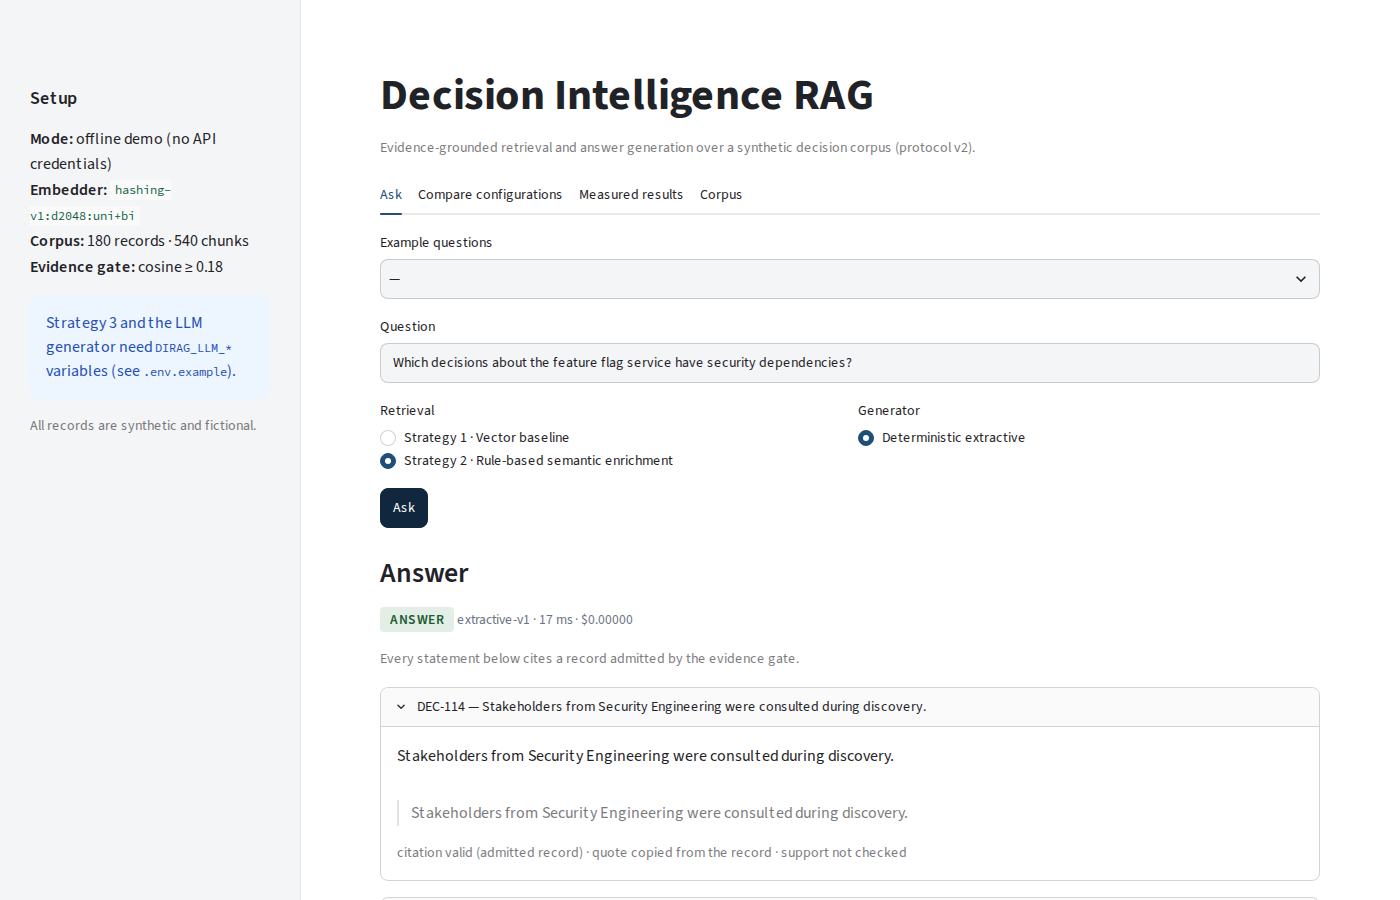
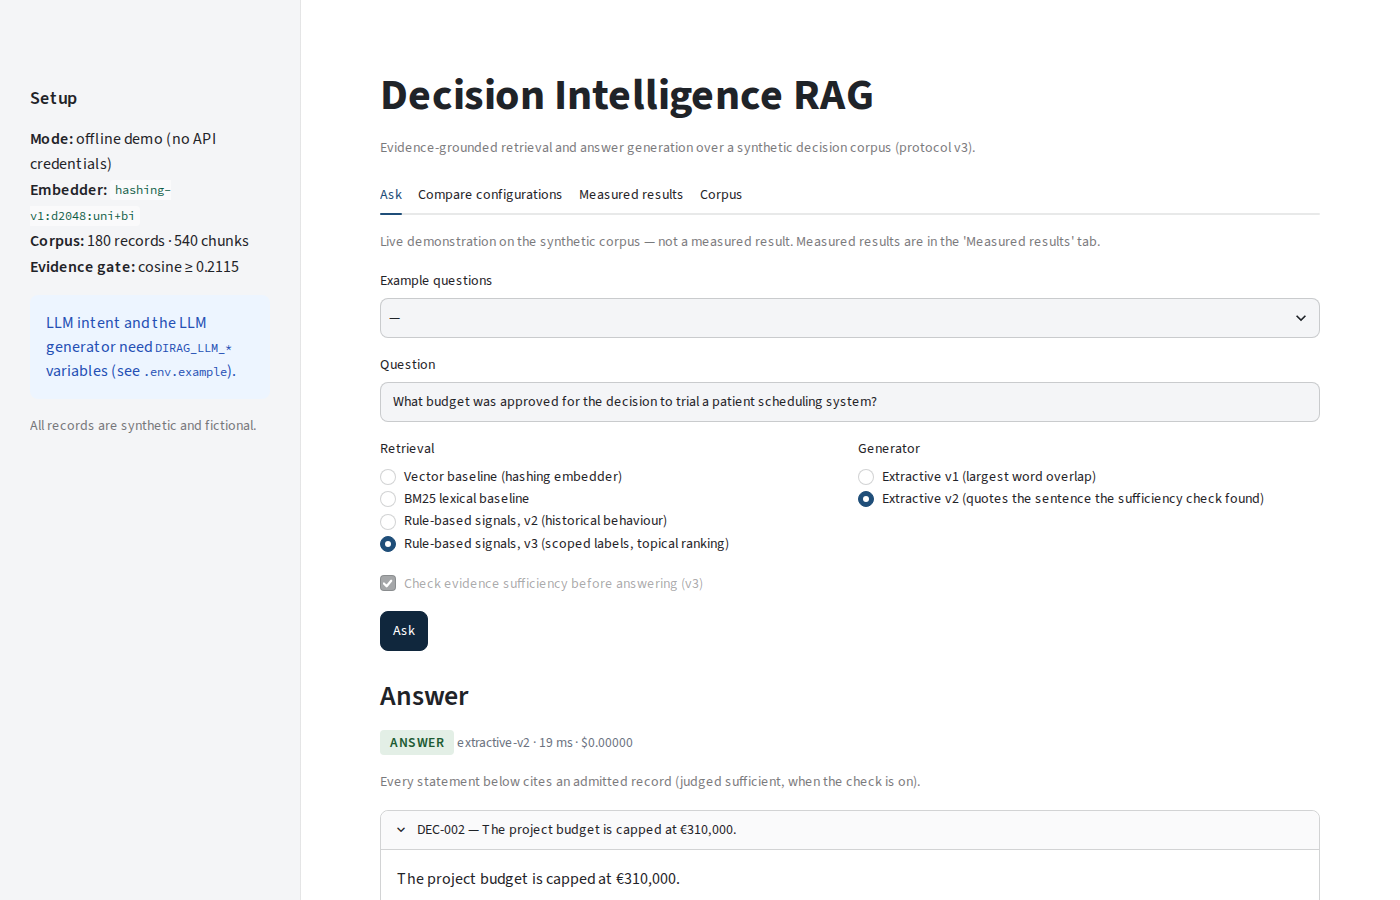
Recapture the interface screenshots for protocol v3
Captured from the local app in offline mode (no DIRAG_* variables):
a budget question answered with the v3 defaults (rules-v3, sufficiency
check, extractive-v2), the evidence and sufficiency panel, and the
measured-results tab with v3 first. The app now prints p < 0.001 and
'all tied' instead of raw 0.0/None, and a dash for metrics older
protocols did not record.

Changed region(s): [[0.2457, 0.2489, 0.9521, 1.0], [0.0307, 0.3422, 0.1536, 0.3733], [0.1536, 0.28, 0.1843, 0.3111]]

diff --git a/scripts/capture_screenshots.py b/scripts/capture_screenshots.py
@@ -20,7 +20,7 @@ from pathlib import Path
 from playwright.sync_api import Page, sync_playwright
 
 OUT = Path(__file__).resolve().parents[1] / "docs" / "assets"
-QUESTION = "Which decisions about the feature flag service have security dependencies?"
+QUESTION = "What budget was approved for the decision to trial a patient scheduling system?"
 
 
 def _wait_idle(page: Page) -> None:
@@ -43,10 +43,9 @@ def main() -> None:
         page.get_by_text("Decision Intelligence RAG", exact=True).first.wait_for(timeout=120_000)
         _wait_idle(page)
 
+        # Defaults: rules-v3 retrieval, sufficiency check on, extractive-v2 generator.
         page.get_by_label("Question", exact=True).fill(QUESTION)
         page.get_by_label("Question", exact=True).press("Enter")
-        _wait_idle(page)
-        page.get_by_text("Strategy 2 · Rule-based semantic enrichment").click()
         _wait_idle(page)
         page.get_by_role("button", name="Ask").click()
         page.get_by_text("Retrieved documents").wait_for(timeout=60_000)
@@ -57,12 +56,12 @@ def main() -> None:
         page.screenshot(path=str(OUT / "retrieval-evidence.png"), full_page=True)
 
         # Streamlit scrolls inside its own container, so a taller viewport shows both result tables.
-        page.set_viewport_size({"width": 1400, "height": 1450})
+        page.set_viewport_size({"width": 1400, "height": 1700})
         page.get_by_role("tab", name="Measured results").click()
-        page.get_by_text("Protocol v2 · holdout · A and B").wait_for(timeout=60_000)
+        page.get_by_text("Protocol v3 · holdout").first.wait_for(timeout=60_000)
         _wait_idle(page)
         page.screenshot(
-            path=str(OUT / "experimental-results.png"), clip={"x": 0, "y": 0, "width": 1400, "height": 1000}
+            path=str(OUT / "experimental-results.png"), clip={"x": 0, "y": 0, "width": 1400, "height": 1250}
         )
         browser.close()
     for name in ("demo-overview.png", "retrieval-evidence.png", "experimental-results.png"):

diff --git a/app/streamlit_app.py b/app/streamlit_app.py
@@ -123,6 +123,12 @@ def plain(text: str) -> str:
     return _MARKDOWN_SPECIAL.sub(r"\\\1", text)
 
 
+def format_p(p: float | None) -> str:
+    if p is None:
+        return "n/a, all tied"
+    return "< 0.001" if p < 0.001 else f"{p:.3f}"
+
+
 def format_cost(cost: float | None) -> str:
     return "cost unknown" if cost is None else f"${cost:.5f}"
 
@@ -253,7 +259,13 @@ def show_results() -> None:
         configs = summary["configs"]
         st.dataframe(
             [
-                {"metric": label, **{c: e["lexical_judge"].get(key) for c, e in configs.items()}}
+                {
+                    "metric": label,
+                    **{
+                        c: "—" if e["lexical_judge"].get(key) is None else e["lexical_judge"][key]
+                        for c, e in configs.items()
+                    },
+                }
                 for key, label in SHOWN_METRICS
             ],
             hide_index=True,
@@ -265,7 +277,7 @@ def show_results() -> None:
             c = summary["paired"][pair]["recall_at_k"]
             st.caption(
                 f"{pair}, Recall@4 per question: second better {c['second_better']}, first better "
-                f"{c['first_better']}, ties {c['ties']} (sign test p = {c['sign_test_p']})."
+                f"{c['first_better']}, ties {c['ties']} (sign test p {format_p(c['sign_test_p'])})."
             )
 
 
